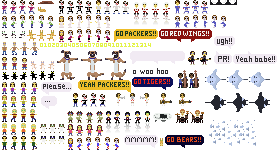
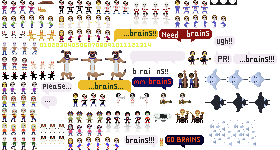
zombie mode done

diff --git a/demo/sarah/sarah.min.js b/demo/sarah/sarah.min.js
@@ -180,7 +180,7 @@ function(a){a.shimmer({filter:"tiles",minAlpha:0.2,maxAlpha:0.5,baseRate:2E3,rat
 loops:Infinity});c=new L7.ParallaxBoard({boards:[a,b],tileSize:c,width:a.width,height:a.height});b.ani.repeat(Infinity,function(a){a.invoke(function(){SAM.game.viewport.scrollX(1)});a.wait(10)});c.destroy=function(){SAM.game.viewport.reset()};return c};SAM.DadTractor.prototype._createSmokeSystem=function(a){return fireSystem=new L7.ParticleSystem({totalParticles:200,duration:Infinity,gravity:L7.p(),centerOfGravity:L7.p(),angle:-90,angleVar:10,speed:24,speedVar:10,radialAccel:0,radialAccelVar:0,tangentialAccel:0,
 tangentialAccelVar:0,position:a,posVar:L7.p(1,1),life:0.3,lifeVar:0.05,emissionRate:200,startColor:L7.Color.fromFloats(0.2,0.2,0.2,1),startColorVar:[0,0,0,0],endColor:[0,0,0,0],endColorVar:[0,0,0,0],active:!0})}})();
 (function(){SAM.DogLine=function(a,b){var c=[b.ben(L7.p(15,25)),b.livi(L7.p(5,45)),b.buddy(L7.p(45,45))],d=b.woohooBubble(L7.p(2,5)),e=new L7.Board({tileSize:a,width:60,height:60,borderWidth:0,parallaxRatio:0});e.addActors.apply(e,c);e.ani.frame({targets:c,pieceSetIndex:1,rate:150,looping:"backforth",loops:Infinity});var f=b.woo(L7.p(29,8)),g=b.hoo(L7.p(44,6)),h=[];e.ani.sequence(function(a){a.wait(5700);for(var c=0;6>c;++c)0===c&&a.invoke(function(){e.addActor(d)}),a.wait(484.5),function(c){a.invoke(function(){var a=
-b.ooo(L7.p(4+4*c,8));e.addActor(a);h.push(a)})}(c);a.wait(300);a.invoke(function(){e.addActor(f)});a.wait(300);a.invoke(function(){e.addActor(g)});a.wait(2800);a.invoke(function(){e.removeActor(f);e.removeActor(g);h.forEach(function(a){e.removeActor(a)})});a.wait(390);for(c=0;6>c;++c)a.wait(484.5),function(b){a.invoke(function(){e.addActor(h[b])})}(c);a.wait(300);a.invoke(function(){e.addActor(f)});a.wait(300);a.invoke(function(){e.addActor(g)})});c=new L7.Board({tileSize:a,width:60,height:60,borderWidth:0,
+b.ooo(L7.p(4+4*c,6));e.addActor(a);h.push(a)})}(c);a.wait(300);a.invoke(function(){e.addActor(f)});a.wait(300);a.invoke(function(){e.addActor(g)});a.wait(2800);a.invoke(function(){e.removeActor(f);e.removeActor(g);h.forEach(function(a){e.removeActor(a)})});a.wait(390);for(c=0;6>c;++c)a.wait(484.5),function(b){a.invoke(function(){e.addActor(h[b])})}(c);a.wait(300);a.invoke(function(){e.addActor(f)});a.wait(300);a.invoke(function(){e.addActor(g)})});c=new L7.Board({tileSize:a,width:60,height:60,borderWidth:0,
 defaultTileColor:[50,120,200,1],parallaxRatio:0});c.ani.repeat(Infinity,function(a){a.shimmer({filter:"tiles",minAlpha:0.2,maxAlpha:0.5,baseRate:2E3,rateVariance:0.4})});return new L7.ParallaxBoard({boards:[c,e]})}})();
 (function(){SAM.Hawaii=function(a,b,c,d){var e=new L7.ColorLevelLoader(a,c,0),a=e.load(),e=new L7.ColorLevelLoader(b,c,0),f=e.load(),g=d.mattWetsuit(L7.p(29,7)),h=d.sarahWetsuit(L7.p(38,8));f.addActors(g,h);var b=this._getMantaBoard({from:"right",actors:[{n:"mantaGoingLeft",y:30}],duration:8E3,delay:1800,offsetTo:f.pixelWidth},d,c),e=this._getMantaBoard({from:"right",actors:[{n:"blackMantaGoingLeft",y:26}],duration:4E3,delay:8800,offsetTo:f.pixelWidth},d,c),k=this._getMantaBoard({from:"left",actors:[{n:"mantaGoingRight",
 y:40}],duration:7E3,delay:2E3,offsetTo:-f.pixelWidth},d,c),j=this._getMantaBoard({from:"right",actors:[{n:"fishGoingLeft",y:40}],duration:11E3,delay:3E3,offsetTo:f.pixelWidth},d,c),i=this._getMantaBoard({from:"right",actors:[{n:"fishGoingLeft",y:48}],duration:9E3,delay:7E3,offsetTo:f.pixelWidth},d,c),c=this._getMantaBoard({from:"left",actors:[{n:"fishGoingRight",y:28}],duration:9E3,delay:3E3,offsetTo:-f.pixelWidth},d,c),c=new L7.ParallaxBoard({boards:[a,f,c,b,e,j,k,i],width:60,height:60});f.ani.together(Infinity,
@@ -247,6 +247,6 @@ width:10,height:9,direction:"horizontal",sets:[[0],[1,2,3]],initialSet:0,initial
 initialSet:0,initialFrame:0,anchor:L7.p(0,0),offset:L7.p(104,111)},position:a||L7.p(0,0)})},avPlayerNoShadow:function(a){return new L7.Actor({framesConfig:{src:this.image,width:10,height:12,direction:"horizontal",sets:[[0],[1,2,3]],initialSet:0,initialFrame:0,anchor:L7.p(0,0),offset:L7.p(104,111)},position:a||L7.p(0,0)})},redwingPlayer:function(a){return new L7.Actor({framesConfig:{src:this.image,width:10,height:26,direction:"horizontal",sets:[[0],[1,2,3]],initialSet:0,initialFrame:0,anchor:L7.p(0,
 0),offset:L7.p(132,2)},position:a||L7.p(0,0)})},redwingPlayerNoShadow:function(a){return new L7.Actor({framesConfig:{src:this.image,width:10,height:12,direction:"horizontal",sets:[[0],[1,2,3]],initialSet:0,initialFrame:0,anchor:L7.p(0,0),offset:L7.p(132,2)},position:a||L7.p(0,0)})},hockeyRef:function(a){return new L7.Actor({framesConfig:{src:this.image,width:9,height:26,direction:"horizontal",sets:[[0],[0]],initialSet:0,initialFrame:0,anchor:L7.p(0,0),offset:L7.p(144,111)},position:a||L7.p(0,0)})},
 chipotleBlimp:function(a){return new L7.Actor({framesConfig:{src:this.image,width:19,height:9,direction:"horizontal",sets:[[0],[0]],initialSet:0,initialFrame:0,anchor:L7.p(0,0),offset:L7.p(153,113)},position:a||L7.p(0,0)})},woohooBubble:function(a){return new L7.Actor({framesConfig:{src:this.image,width:55,height:14,direction:"horizontal",sets:[[0]],initialSet:0,initialFrame:0,anchor:L7.p(0,0),offset:L7.p(130,51)},position:a||L7.p(0,0)})},ooo:function(a){return new L7.Actor({framesConfig:{src:this.image,
-width:3,height:4,direction:"horizontal",sets:[[0]],initialSet:0,initialFrame:0,anchor:L7.p(0,0),offset:L7.p(133,70)},position:a||L7.p(0,0)})},woo:function(a){return new L7.Actor({framesConfig:{src:this.image,width:13,height:4,direction:"horizontal",sets:[[0]],initialSet:0,initialFrame:0,anchor:L7.p(0,0),offset:L7.p(140,70)},position:a||L7.p(0,0)})},hoo:function(a){return new L7.Actor({framesConfig:{src:this.image,width:11,height:6,direction:"horizontal",sets:[[0]],initialSet:0,initialFrame:0,anchor:L7.p(0,
+width:3,height:6,direction:"horizontal",sets:[[0]],initialSet:0,initialFrame:0,anchor:L7.p(0,0),offset:L7.p(133,68)},position:a||L7.p(0,0)})},woo:function(a){return new L7.Actor({framesConfig:{src:this.image,width:13,height:4,direction:"horizontal",sets:[[0]],initialSet:0,initialFrame:0,anchor:L7.p(0,0),offset:L7.p(140,70)},position:a||L7.p(0,0)})},hoo:function(a){return new L7.Actor({framesConfig:{src:this.image,width:11,height:6,direction:"horizontal",sets:[[0]],initialSet:0,initialFrame:0,anchor:L7.p(0,
 0),offset:L7.p(157,68)},position:a||L7.p(0,0)})},john:function(a){return new L7.Actor({framesConfig:{src:this.image,width:12,height:14,direction:"horizontal",sets:[[0,1]],initialSet:0,initialFrame:0,anchor:L7.p(0,0),offset:L7.p(188,51)},position:a||L7.p(0,0)})},byron:function(a){return new L7.Actor({framesConfig:{src:this.image,width:11,height:18,direction:"horizontal",sets:[[0,1]],initialSet:0,initialFrame:0,anchor:L7.p(0,0),offset:L7.p(178,70)},position:a||L7.p(0,0)})},nicky:function(a){return new L7.Actor({framesConfig:{src:this.image,
 width:15,height:14,direction:"horizontal",sets:[[0,1]],initialSet:0,initialFrame:0,anchor:L7.p(0,0),offset:L7.p(175,109)},position:a||L7.p(0,0)})}}})();

diff --git a/demo/sarah/sarah.debug.js b/demo/sarah/sarah.debug.js
@@ -512,7 +512,7 @@ enumerable:!1})})();(function(){L7.rand=function(a,b,c){_.isUndefined(c)&&(c=!1)
 				ani.wait(split);
 				(function(xoff) {
 					ani.invoke(function() {
-						var ooh = spriteFactory.ooo(L7.p(4 + (4*xoff), wordY));
+						var ooh = spriteFactory.ooo(L7.p(4 + (4*xoff), wordY-2));
 						dogBoard.addActor(ooh);
 						oohs.push(ooh);
 					});
@@ -2884,13 +2884,13 @@ enumerable:!1})})();(function(){L7.rand=function(a,b,c){_.isUndefined(c)&&(c=!1)
 				framesConfig: {
 					src: this.image,
 					width: 3,
-					height: 4,
+					height: 6,
 					direction: 'horizontal',
 					sets: [[0]],
 					initialSet: 0,
 					initialFrame: 0,
 					anchor: L7.p(0, 0),
-					offset: L7.p(133, 70)
+					offset: L7.p(133, 68)
 				},
 				position: position || L7.p(0, 0)
 			});

diff --git a/demo/sarah/SpriteFactory.js b/demo/sarah/SpriteFactory.js
@@ -1068,13 +1068,13 @@
 				framesConfig: {
 					src: this.image,
 					width: 3,
-					height: 4,
+					height: 6,
 					direction: 'horizontal',
 					sets: [[0]],
 					initialSet: 0,
 					initialFrame: 0,
 					anchor: L7.p(0, 0),
-					offset: L7.p(133, 70)
+					offset: L7.p(133, 68)
 				},
 				position: position || L7.p(0, 0)
 			});

diff --git a/demo/sarah/boards/DogLine.js b/demo/sarah/boards/DogLine.js
@@ -46,7 +46,7 @@
 				ani.wait(split);
 				(function(xoff) {
 					ani.invoke(function() {
-						var ooh = spriteFactory.ooo(L7.p(4 + (4*xoff), wordY));
+						var ooh = spriteFactory.ooo(L7.p(4 + (4*xoff), wordY-2));
 						dogBoard.addActor(ooh);
 						oohs.push(ooh);
 					});
